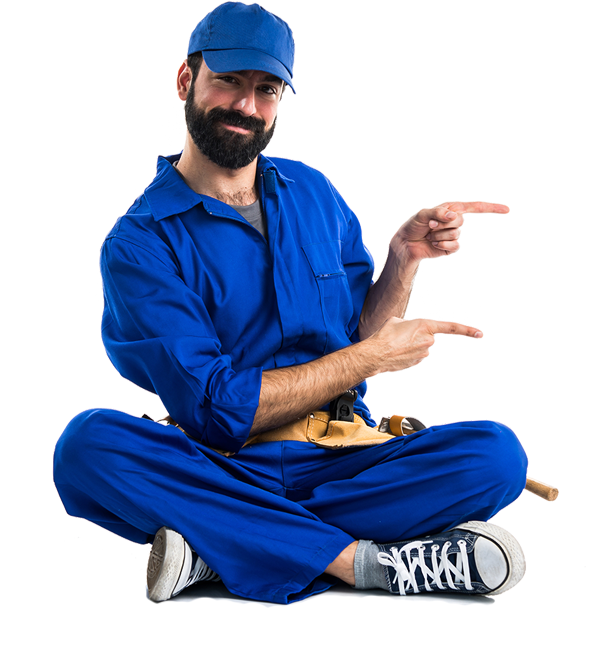
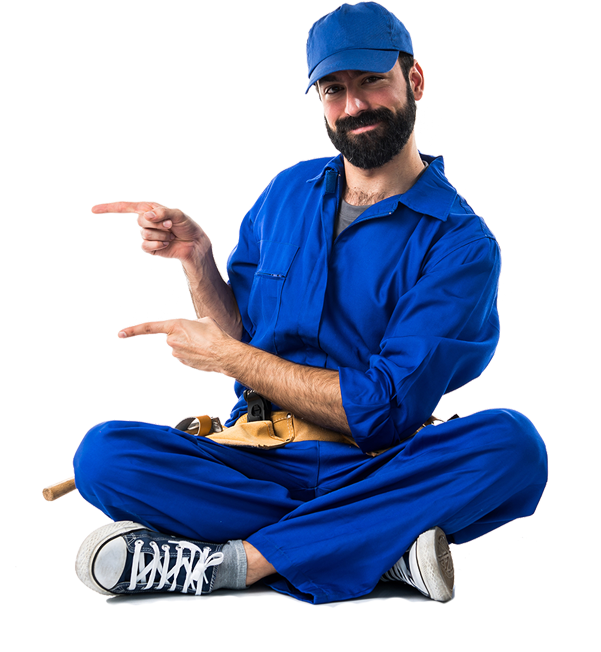
jelentkezés kép csere

diff --git a/jelentkezes.html b/jelentkezes.html
@@ -139,7 +139,7 @@
               </div>
               <div class="col-lg-7 col-md-6">
                   <div class="img-box">
-                      <img src="images/slider-img.png" style="width:700px" alt="">
+                      <img src="images/professional-img.png" style="width:700px" alt="">
                   </div>
               </div>
           </div>
